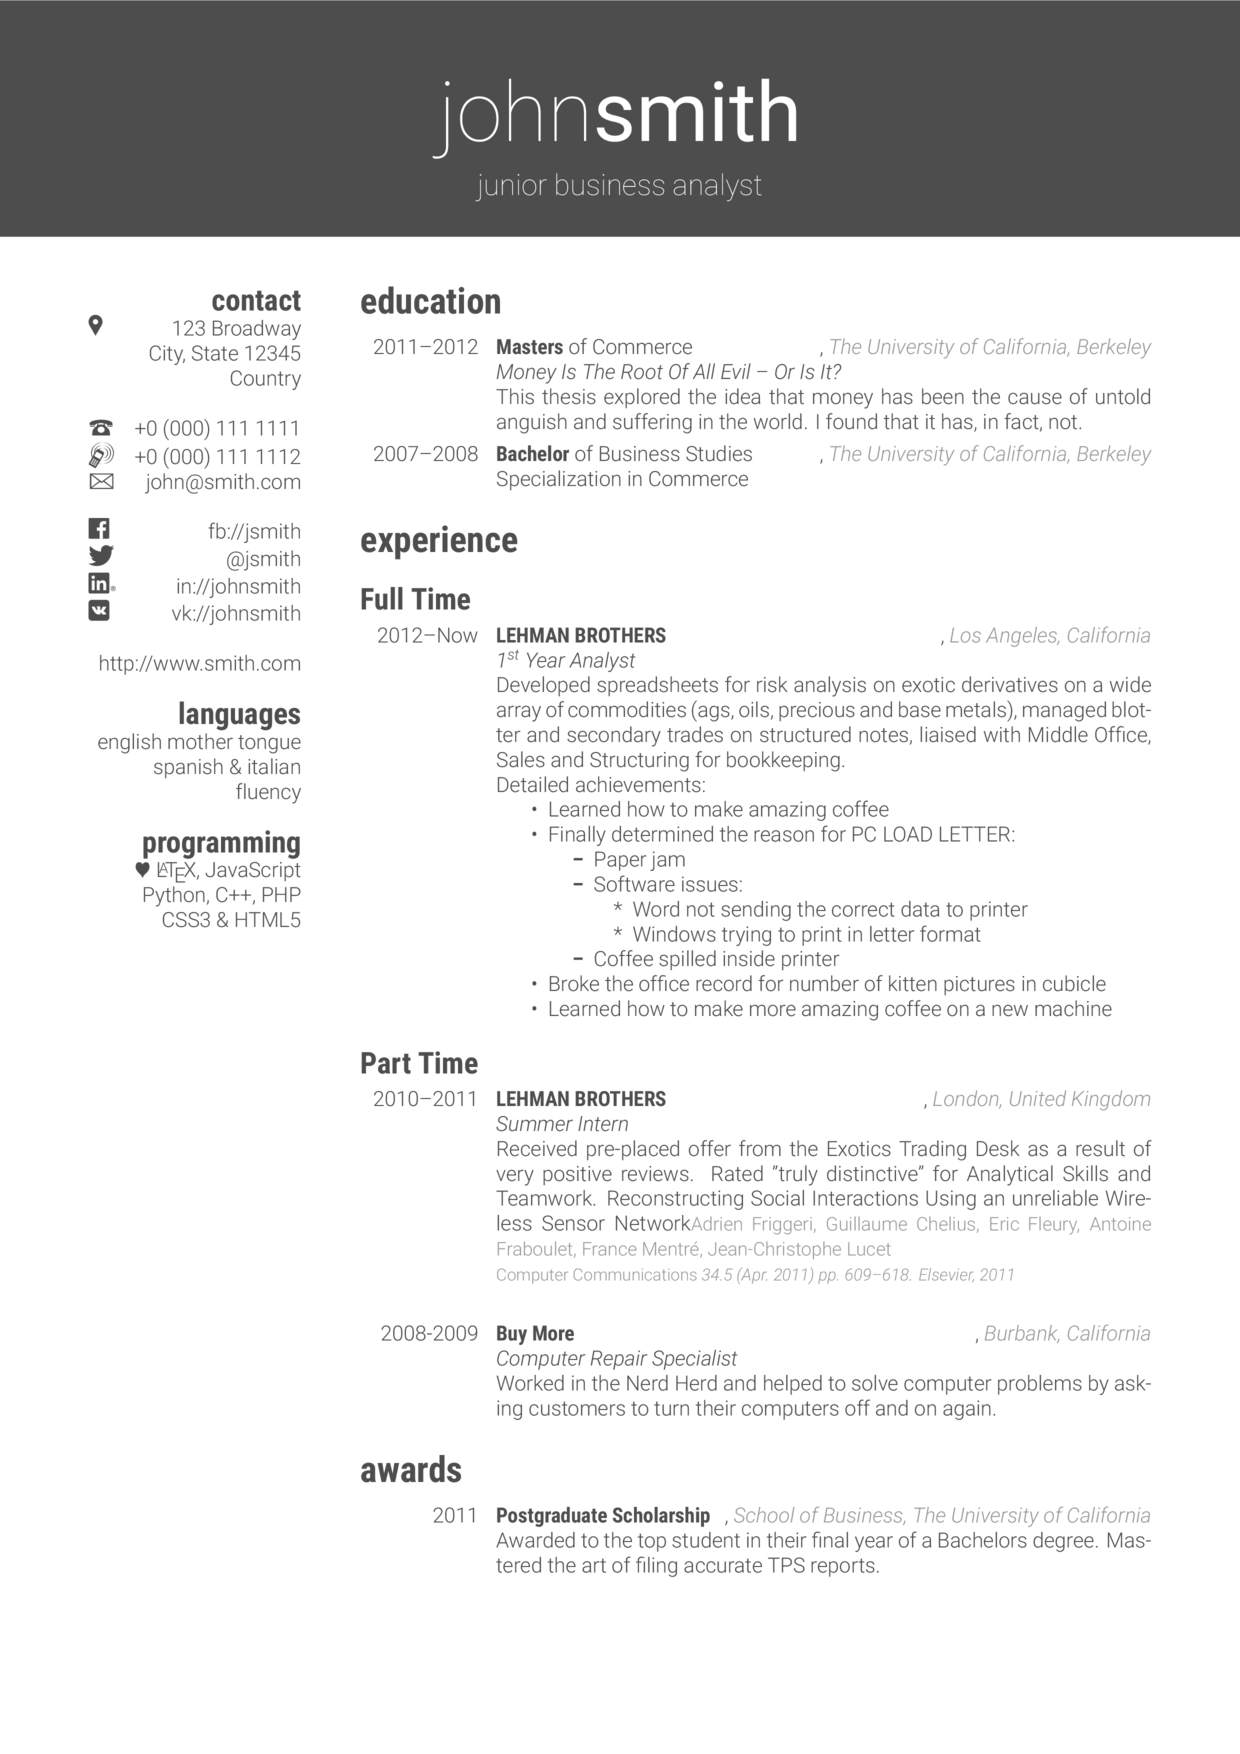
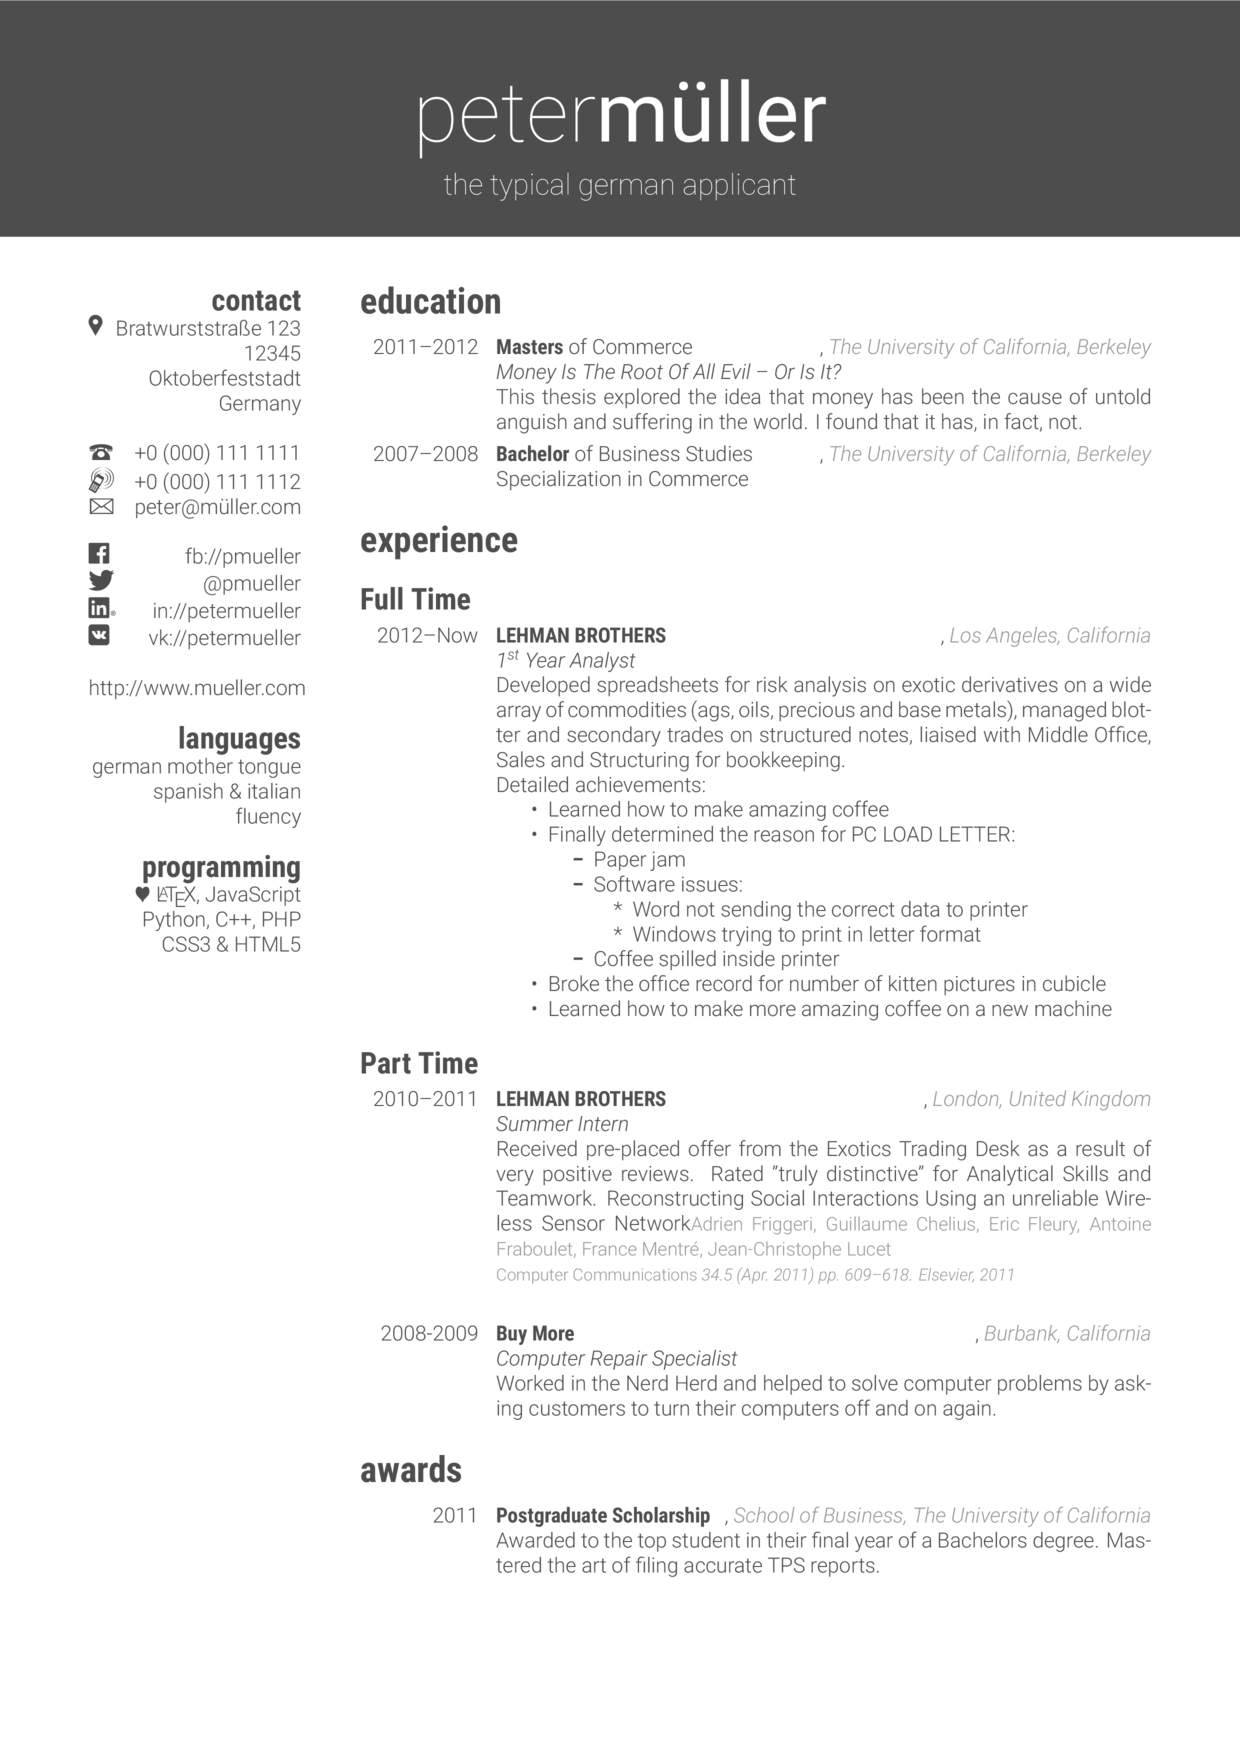
German CV content

Changed region(s): [[0.0613, 0.1847, 0.2452, 0.5542], [0.3371, 0.0308, 0.6742, 0.1231]]

diff --git a/cv.tex b/cv.tex
@@ -32,7 +32,7 @@
 \addbibresource{bibliography.bib} % Specify the bibliography file to include publications
 \begin{document}
 
-\header{john}{smith}{junior business analyst} % Your name and current job title/field
+\header{peter}{müller}{the typical german applicant} % Your name and current job title/field
 
 %----------------------------------------------------------------------------------------
 %	SIDEBAR SECTION
@@ -40,22 +40,22 @@
 
 \begin{aside} % In the aside, each new line forces a line break
 \section{contact}
-\pin \hfill 123 Broadway
-City, State 12345
-Country
+\pin \hfill Bratwurststraße 123
+12345 Oktoberfeststadt
+Germany
 ~
 {\Large\textcolor{gray}{\Telefon}} \hfill +0 (000) 111 1111
 {\Large\textcolor{gray}{\Mobilefone}} \hfill +0 (000) 111 1112
-{\Large\textcolor{gray}{\Letter}} \hfill \href{mailto:john@smith.com}{john@smith.com}
+{\Large\textcolor{gray}{\Letter}} \hfill \href{mailto:peter@müller.com}{peter@müller.com}
 ~
-\flogo \hfill \href{http://facebook.com/johnsmith}{fb://jsmith}
-\tlogo \hfill \href{http://twitter.com/johnsmith}{@jsmith}
-\llogo \hfill \href{http://linkedin.com/johnsmith}{in://johnsmith}
-\vklogo \hfill \href{http://vk.com/johnsmith}{vk://johnsmith}
+\flogo \hfill \href{http://facebook.com/petermueller}{fb://pmueller}
+\tlogo \hfill \href{http://twitter.com/petermueller}{@pmueller}
+\llogo \hfill \href{http://linkedin.com/petermueller}{in://petermueller}
+\vklogo \hfill \href{http://vk.com/petermueller}{vk://petermueller}
 ~
-\href{http://www.smith.com}{http://www.smith.com}
+\href{http://www.mueller.com}{http://www.mueller.com}
 \section{languages}
-english mother tongue
+german mother tongue
 spanish \& italian fluency
 \section{programming}
 {\color{red} $\varheartsuit$} \LaTeX, JavaScript
